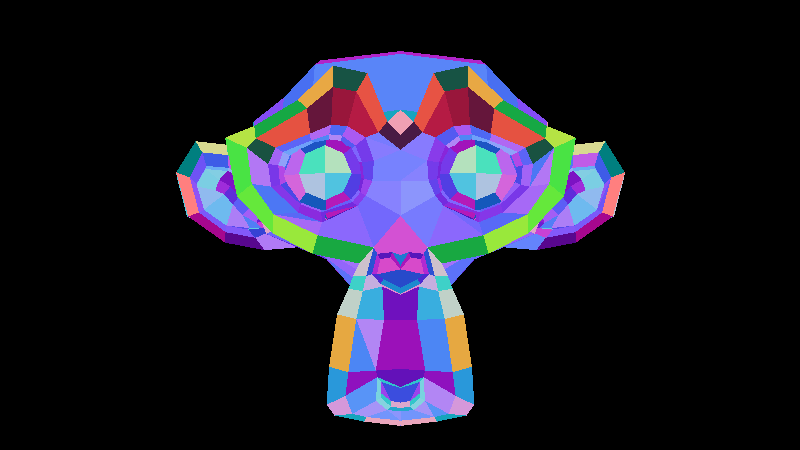
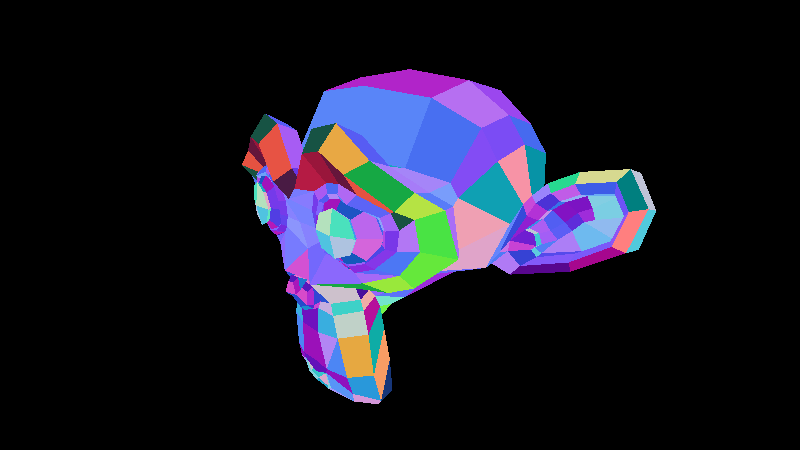
refactor: camera builder and camera transform

Changed region(s): [[0.2188, 0.0933, 0.8438, 0.9644]]

diff --git a/src/camera.rs b/src/camera.rs
@@ -1,89 +1,92 @@
-use derive_builder::Builder;
-use nalgebra::{Matrix3, Matrix4, Matrix4x3, RowVector3, Vector3};
-
 use crate::Ray;
+use derive_builder::Builder;
+use nalgebra::{Matrix3, Matrix4, Matrix4x3, Point3, RowVector3, Vector3};
 
 pub trait Camera {
-    fn ray(&self, u: f32, v: f32) -> Ray;
+    fn ray_caster(&self) -> RayCaster;
+}
+
+pub struct RayCaster {
+    origin: Vector3<f32>,
+    transform: Matrix4x3<f32>,
+}
+
+impl RayCaster {
+    pub fn ray(&self, u: f32, v: f32) -> Ray {
+        let direction = self.transform * Vector3::new(u, v, 1.0);
+        let direction = Vector3::from_homogeneous(direction).unwrap().normalize();
+        Ray::new(self.origin, direction)
+    }
 }
 
 #[derive(Builder)]
-pub struct HomogenousCamera {
+pub struct PerspectiveCamera {
     image_width: u32,
     image_height: u32,
     focal_lenght: f32,
     pixel_width: f32,
     pixel_height: f32,
-    translation: Matrix4<f32>,
-    rotation: Matrix4<f32>,
-
-    #[builder(setter(custom))]
-    extrinsic_transform: Matrix4<f32>,
-
-    #[builder(setter(custom))]
-    intrinsic_transform: Matrix4x3<f32>,
-
-    #[builder(setter(custom))]
-    camera_transform: Matrix4x3<f32>,
+    translation: Vector3<f32>,
+    rotation_matrix: Matrix4<f32>,
 }
 
-impl HomogenousCameraBuilder {
+impl PerspectiveCameraBuilder {
     pub fn image_size(&mut self, width: u32, height: u32) -> &mut Self {
         self.image_width = Some(width);
         self.image_height = Some(height);
-
         self
     }
 
-    pub fn extrinsic_transform(&mut self) -> &mut Self {
-        let translation_inv = Matrix4::new_translation(&self.translation.unwrap()).try_inverse().unwrap();
-        let rotation_inv = self.rotation.unwrap().try_inverse().unwrap();
+    pub fn look_at(&mut self, target: Point3<f32>) -> &mut Self {
+        let matrix = Matrix4::look_at_rh(
+            &self.translation.unwrap().into(),
+            &target,
+            &Vector3::new(0.0, 1.0, 0.0),
+        );
 
-        self.extrinsic_transform =
-            Some(translation_inv * rotation_inv);
-
-        self
-    }
-
-    pub fn intrinsic_transform(&mut self) -> &mut Self {
-        let f = self.focal_lenght.unwrap();
-        let pxw = self.pixel_width.unwrap();
-        let pxh = self.pixel_height.unwrap();
-        let imgw = self.image_width.unwrap() as f32;
-        let imgh = self.image_height.unwrap() as f32;
-
-        let perspective = Matrix4x3::from_rows(&[
-            RowVector3::new(1.0 / f, 0.0, 0.0),
-            RowVector3::new(0.0, 1.0 / f, 0.0),
-            RowVector3::new(0.0, 0.0, 1.0),
-            RowVector3::new(0.0, 0.0, 0.0),
-        ]);
-
-        let image = Matrix3::from_rows(&[
-            RowVector3::new(1.0 / pxw, 0.0, imgw / 2.0),
-            RowVector3::new(0.0, -1.0 / pxh, imgh / 2.0),
-            RowVector3::new(0.0, 0.0, 1.0),
-        ]);
-
-        self.intrinsic_transform = Some(perspective * image.try_inverse().unwrap());
-
-        self
-    }
-
-    pub fn camera_transform(&mut self) -> &mut Self {
-        self.camera_transform =
-            Some(self.extrinsic_transform.unwrap() * self.intrinsic_transform.unwrap());
-
+        self.rotation_matrix(matrix);
         self
     }
 }
 
-impl Camera for HomogenousCamera {
-    fn ray(&self, u: f32, v: f32) -> Ray {
-        let r = self.camera_transform * Vector3::new(u, v, 1.0);
-        let origin = self.translation;
-        let direction = Vector3::from_homogeneous(r).unwrap().normalize();
+impl Camera for PerspectiveCamera {
+    fn ray_caster(&self) -> RayCaster {
+        let extrinsics = {
+            let translation_inv = Matrix4::new_translation(&self.translation)
+                .try_inverse()
+                .unwrap();
+            let rotation_inv = self.rotation_matrix.try_inverse().unwrap();
+            translation_inv * rotation_inv
+        };
 
-        Ray::new(origin, direction)
+        let intrinsics = {
+            let f = self.focal_lenght;
+            let pxw = self.pixel_width;
+            let pxh = self.pixel_height;
+            let imgw = self.image_width as f32;
+            let imgh = self.image_height as f32;
+
+            let perspective = Matrix4x3::from_rows(&[
+                RowVector3::new(1.0 / f, 0.0, 0.0),
+                RowVector3::new(0.0, 1.0 / f, 0.0),
+                RowVector3::new(0.0, 0.0, -1.0),
+                RowVector3::new(0.0, 0.0, 0.0),
+            ]);
+
+            let image = Matrix3::from_rows(&[
+                RowVector3::new(1.0 / pxw, 0.0, imgw / 2.0),
+                RowVector3::new(0.0, -1.0 / pxh, imgh / 2.0),
+                RowVector3::new(0.0, 0.0, 1.0),
+            ])
+            .try_inverse()
+            .unwrap();
+
+            perspective * image
+        };
+
+        let transform = extrinsics * intrinsics;
+        let origin = self.translation;
+
+        RayCaster { origin, transform }
     }
 }

diff --git a/src/main.rs b/src/main.rs
@@ -1,9 +1,8 @@
 mod camera;
-
-use camera::{Camera, HomogenousCameraBuilder};
+use camera::{Camera, PerspectiveCameraBuilder};
 use image::{Rgb, RgbImage};
 use indicatif::{ProgressBar, ProgressStyle};
-use nalgebra::{Matrix4, Vector3};
+use nalgebra::{Point3, Vector3};
 use tobj;
 
 fn main() {
@@ -11,20 +10,13 @@ fn main() {
     let (models, _materials) = obj.unwrap();
     let mesh: Mesh = Mesh::from(&models[0].mesh);
 
-    let camera = HomogenousCameraBuilder::default()
-        .translation(Vector3::new(0.0, 0.0, 5.0))
-        .rotation(Matrix4::from_euler_angles(
-            0_f32.to_radians(),
-            180_f32.to_radians(),
-            0_f32.to_radians(),
-        ))
+    let camera = PerspectiveCameraBuilder::default()
         .image_size(800, 450)
-        .focal_lenght(2.0)
+        .focal_lenght(1.0)
         .pixel_width(1.0 / 450.0)
         .pixel_height(1.0 / 450.0)
-        .extrinsic_transform()
-        .intrinsic_transform()
-        .camera_transform()
+        .translation(Vector3::new(2.0, 1.0, 2.0))
+        .look_at(Point3::new(0.0, 0.0, 0.0))
         .build()
         .unwrap();
 
@@ -42,6 +34,9 @@ impl Renderer {
     }
 
     pub fn render(&self, camera: &dyn Camera, hittable: &dyn Hittable) -> RgbImage {
+        let ray_caster = camera.ray_caster();
+
+        // TODO: use camera serrings instead of hardcoding values in renderer
         let width = 800;
         let height = 450;
 
@@ -56,7 +51,7 @@ impl Renderer {
 
         for y in 0..height {
             for x in 0..width {
-                let ray = camera.ray(x as f32, y as f32);
+                let ray = ray_caster.ray(x as f32, y as f32);
                 let record = hittable.hit(&ray, 0.0, 100.0);
                 let color = match record {
                     Some(hit_record) => {
